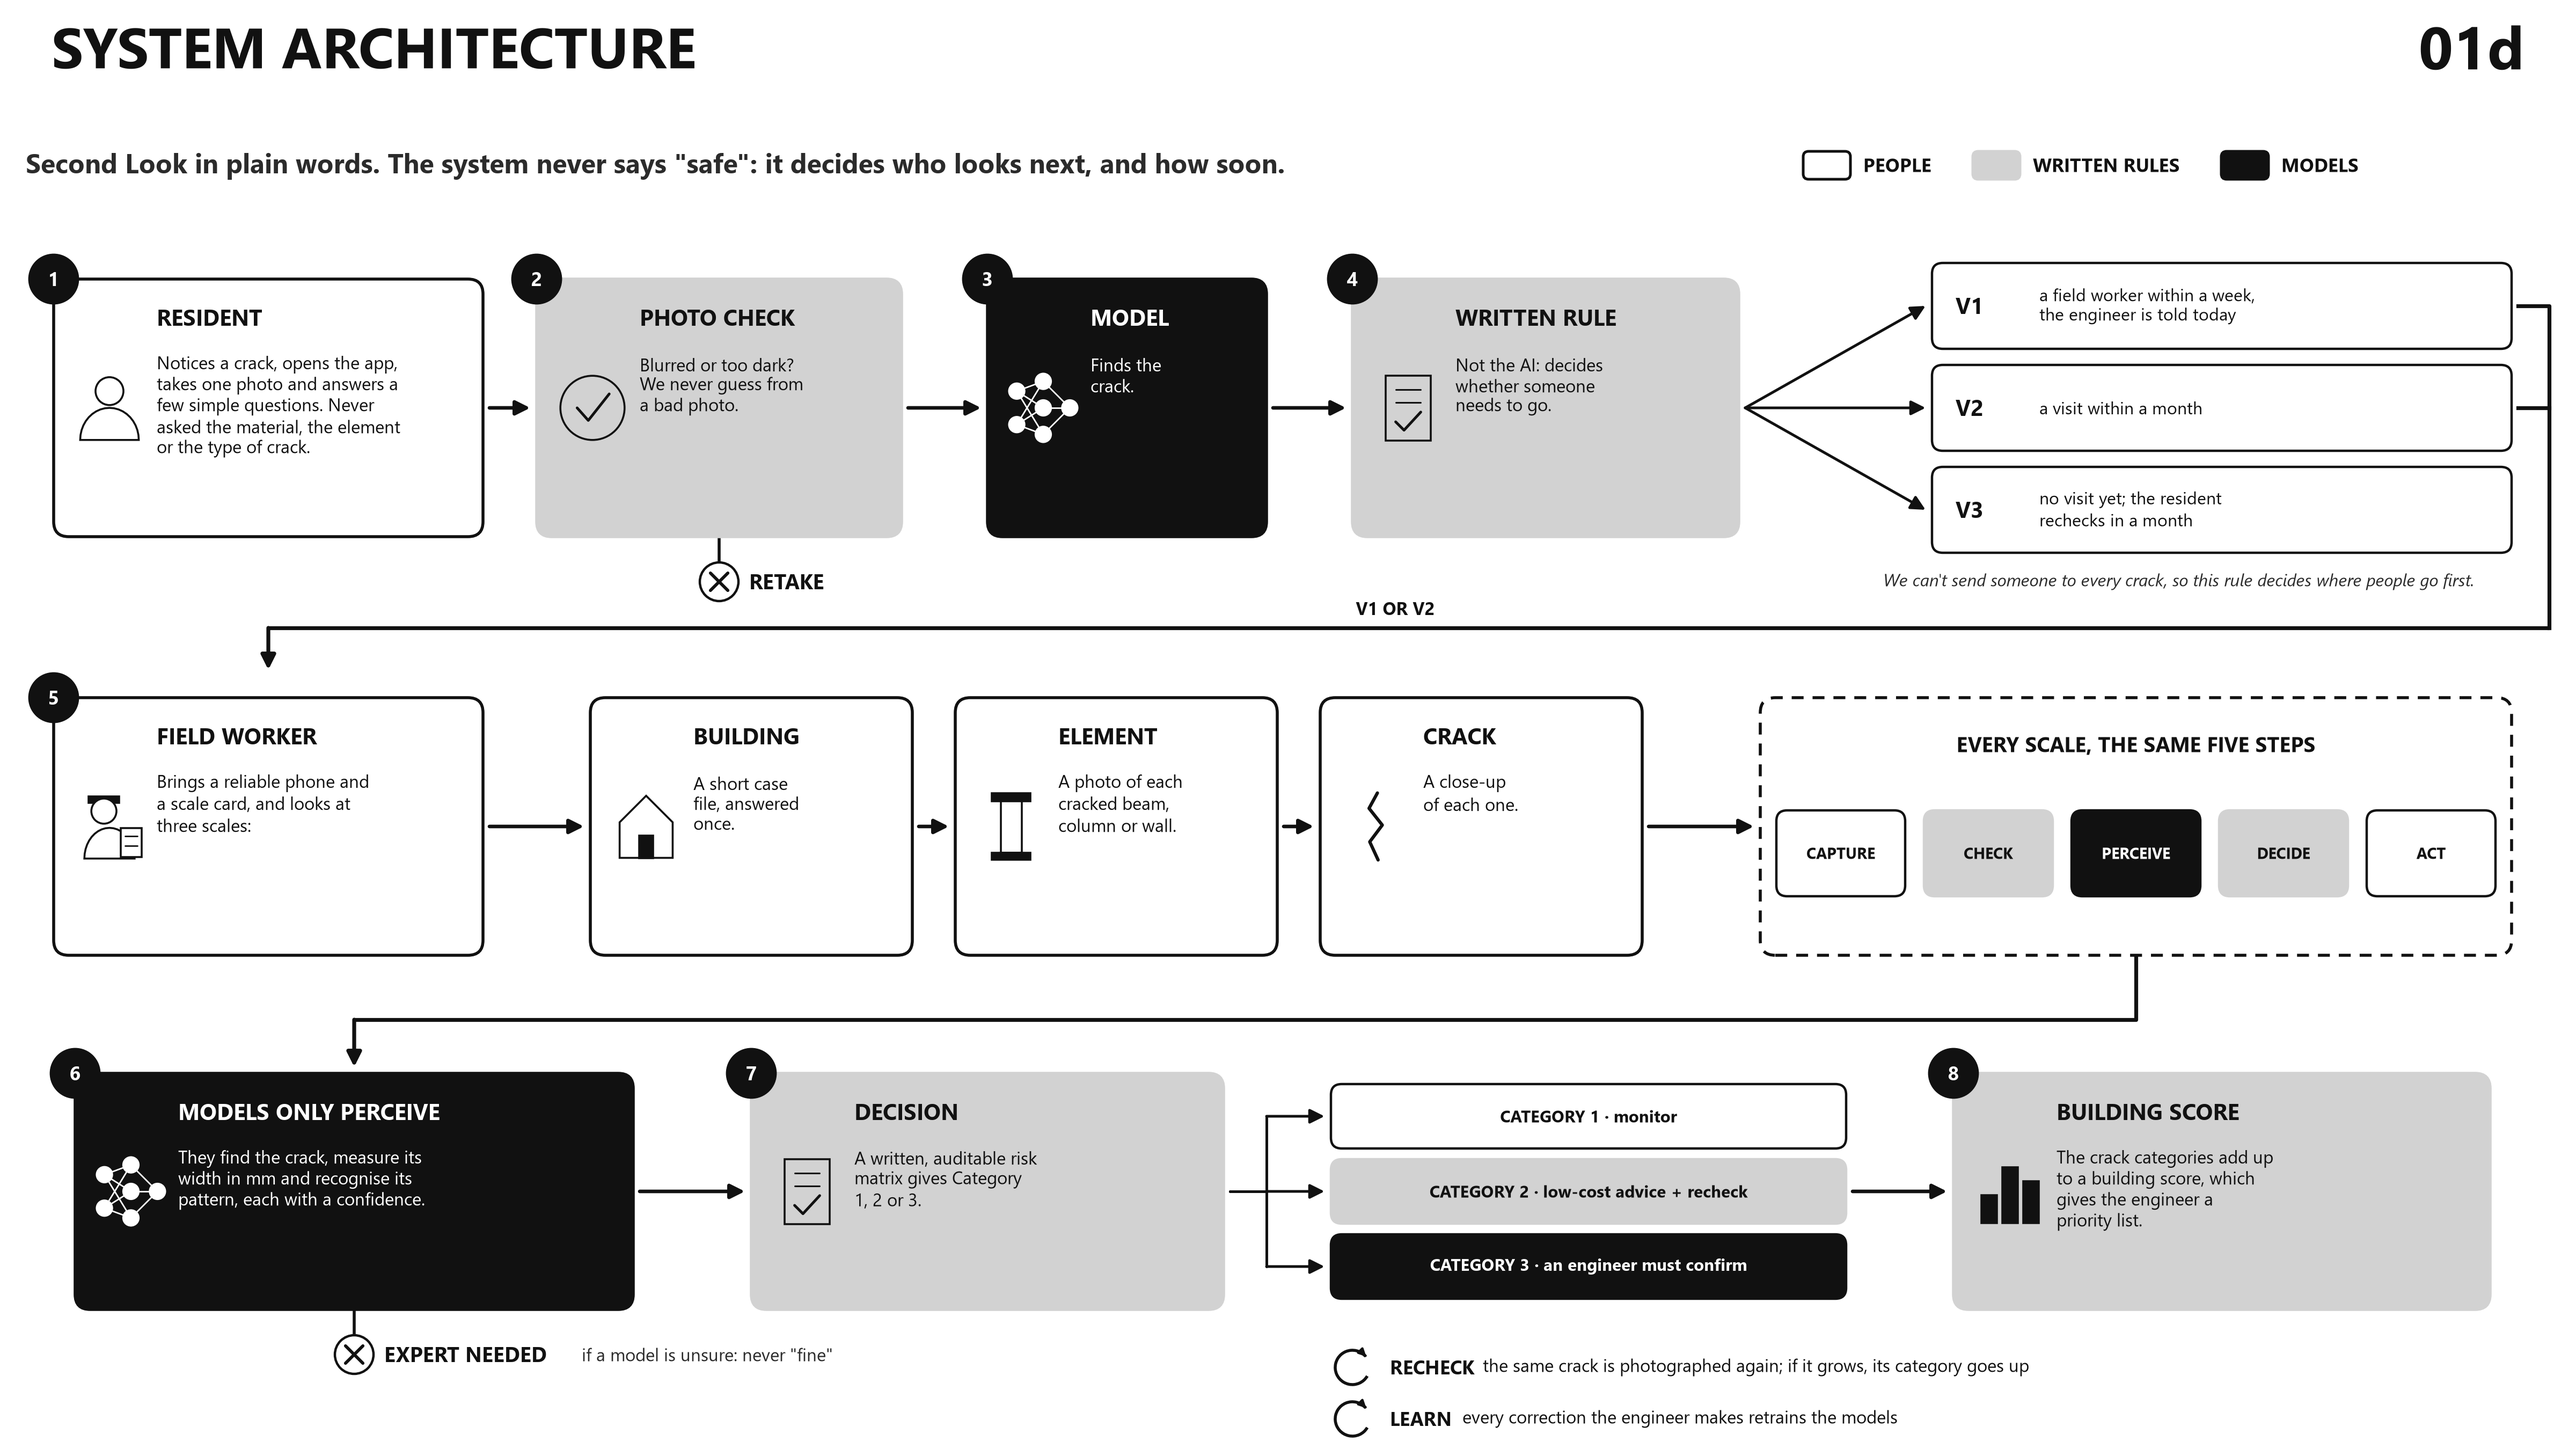
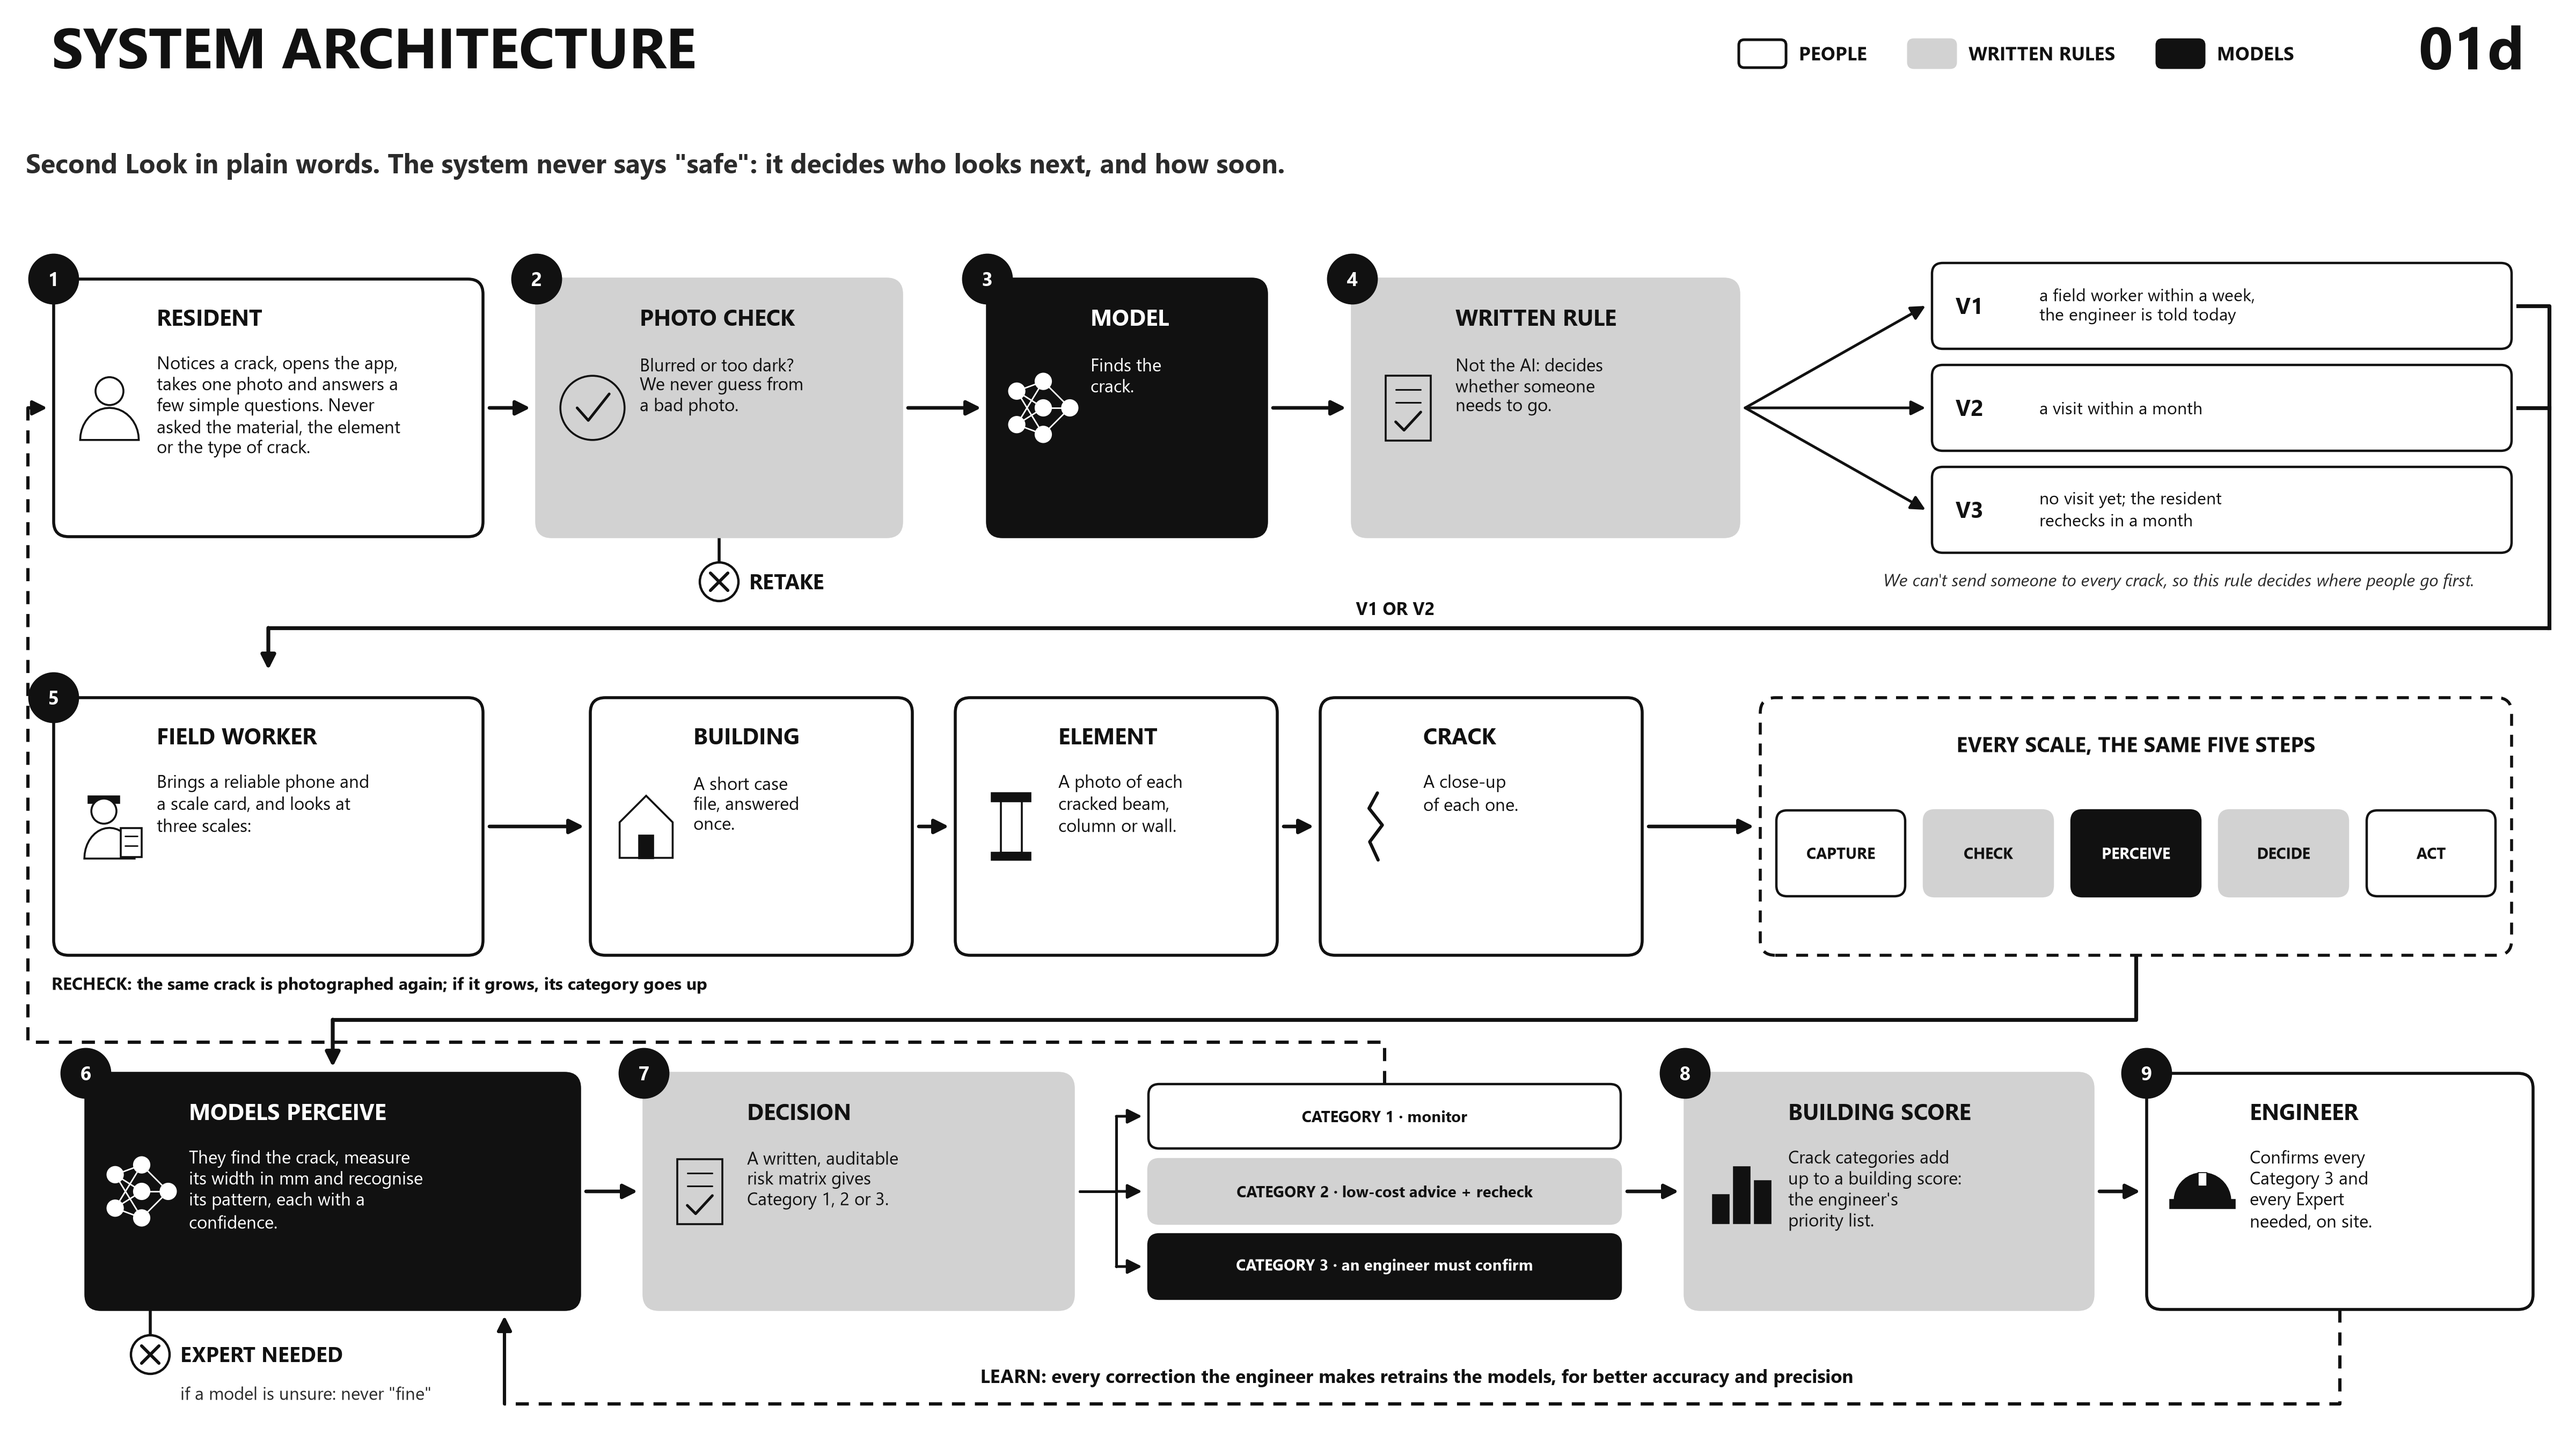
Figure 01d: engineer at the end with the learn loop to the models, recheck loop to the resident, legend on one line top right

diff --git a/src/viz/figures.py b/src/viz/figures.py
@@ -1643,11 +1643,11 @@ def pipeline_story():
     _house_title(fig, "SYSTEM ARCHITECTURE", "01d")
     t.label(2.4, 119.5, "Second Look in plain words. The system never says \"safe\": it decides who looks next, and how "
             "soon.", size=18, colour=FLOW_TEXT, weight="bold", ha="left")
-    kx = 168
+    kx = 162  # legend on one line, top right, on the title row
     for fill, edge, name in (("white", K, "PEOPLE"), (GREY, GREY, "WRITTEN RULES"), (K, K, "MODELS")):
-        ax.add_patch(FancyBboxPatch((kx, 118.3), 4.4, 2.6, boxstyle="round,pad=0,rounding_size=0.5", facecolor=fill,
+        ax.add_patch(FancyBboxPatch((kx, 128.7), 4.4, 2.6, boxstyle="round,pad=0,rounding_size=0.5", facecolor=fill,
                                     edgecolor=edge, lw=1.8, zorder=4))
-        t.label(kx + 5.6, 119.6, name, size=12.5, weight="bold", ha="left")
+        t.label(kx + 5.6, 130.0, name, size=12.5, weight="bold", ha="left")
         kx += 9.5 + 1.05 * len(name)
 
     # row 1: the report
@@ -1696,32 +1696,36 @@ def pipeline_story():
                                       ("rule", "DECIDE"), ("photo", "ACT"))):
         chip(171.5 + k * 13.75, y2 - 2.5, 12.0, 8.0, kind, word, size=10.5)
 
-    # row 3: perceive, decide, act
+    # row 3: perceive, decide, act, and the engineer at the end
     y3, h3 = 24, 22
-    arrow([(199, y2 - h2 / 2), (199, 40), (33, 40), (33, y3 + h3 / 2 + 0.6)], lw=2.6)
-    card(33, y3, 52, h3, "model", "network", "MODELS ONLY PERCEIVE", "They find the crack, measure its\nwidth in mm and "
-         "recognise its\npattern, each with a confidence.", "6")
-    stop(33, y3 - h3 / 2, "EXPERT NEEDED", "if a model is unsure: never \"fine\"")
-    card(92, y3, 44, h3, "rule", "rulebook", "DECISION", "A written, auditable risk\nmatrix gives Category\n1, 2 or 3.",
+    arrow([(199, y2 - h2 / 2), (199, 40), (31, 40), (31, y3 + h3 / 2 + 0.6)], lw=2.6)
+    card(31, y3, 46, h3, "model", "network", "MODELS PERCEIVE", "They find the crack, measure\nits width in mm and "
+         "recognise\nits pattern, each with a\nconfidence.", "6")
+    stop(14, y3 - h3 / 2, "EXPERT NEEDED", "")
+    t.label(16.8, 5.2, "if a model is unsure: never \"fine\"", size=12, colour=FLOW_TEXT, ha="left")
+    card(80, y3, 40, h3, "rule", "rulebook", "DECISION", "A written, auditable\nrisk matrix gives\nCategory 1, 2 or 3.",
          "7")
-    arrow([(59.6, y3), (69.4, y3)])
+    arrow([(54.6, y3), (59.4, y3)])
     cats = [(31.0, "CATEGORY 1 · monitor", "photo"), (24.0, "CATEGORY 2 · low-cost advice + recheck", "rule"),
             (17.0, "CATEGORY 3 · an engineer must confirm", "model")]
     for cy, text_, kind in cats:
-        chip(148, cy, 48, 6.0, kind, text_, size=11)
-        arrow([(114.6, y3), (118, y3), (118, cy), (123.4, cy)], lw=1.8)
-    card(207, y3, 50, h3, "rule", "bars", "BUILDING SCORE", "The crack categories add up\nto a building score, which\n"
-         "gives the engineer a\npriority list.", "8")
-    arrow([(172.6, y3), (181.4, y3)])
+        chip(129, cy, 44, 6.0, kind, text_, size=10.5)
+        arrow([(100.6, y3), (104, y3), (104, cy), (106.4, cy)], lw=1.8)
+    card(176, y3, 38, h3, "rule", "bars", "BUILDING SCORE", "Crack categories add\nup to a building score:\n"
+         "the engineer's\npriority list.", "8")
+    arrow([(151.6, y3), (156.4, y3)])
+    card(218, y3, 36, h3, "photo", "hardhat", "ENGINEER", "Confirms every\nCategory 3 and\nevery Expert\nneeded, on site.",
+         "9")
+    arrow([(195.6, y3), (199.4, y3)])
 
-    # the two loops
-    for ly, word, text_ in ((7.6, "RECHECK", "the same crack is photographed again; if it grows, its category goes up"),
-                            (2.8, "LEARN", "every correction the engineer makes retrains the models")):
-        ax.add_patch(matplotlib.patches.Arc((126, ly), 3.2, 3.2, theta1=40, theta2=330, color=K, lw=2.0, zorder=5))
-        ax.annotate("", xy=(127.3, ly + 1.0), xytext=(127.0, ly + 1.3),
-                    arrowprops=dict(arrowstyle="-|>", color=K, lw=1.6, mutation_scale=10), zorder=5)
-        t.label(129.5, ly, word, size=13, weight="bold", ha="left")
-        t.label(129.5 + 0.95 * len(word) + 2.0, ly, text_, size=12, ha="left")
+    # learn: the engineer's corrections go back to the models (dashed)
+    arrow([(218, y3 - h3 / 2), (218, 4.2), (47, 4.2), (47, y3 - h3 / 2 - 0.6)], ls=(0, (4, 3)), lw=2.2)
+    t.label(132, 6.6, "LEARN: every correction the engineer makes retrains the models, for better accuracy and "
+            "precision", size=12.5, weight="bold")
+    # recheck: categories 1 and 2 bring the same crack back to the resident (dashed)
+    arrow([(129, 34.0), (129, 37.9), (2.6, 37.9), (2.6, y1), (4.4, y1)], ls=(0, (4, 3)), lw=2.2)
+    t.label(4.8, 43.2, "RECHECK: the same crack is photographed again; if it grows, its category goes up", size=11.5,
+            weight="bold", ha="left")
     return fig
 
 

diff --git a/spec/features/figures.md b/spec/features/figures.md
@@ -9,7 +9,7 @@ Every figure is drawn from the repo's own rules and data map, so it changes when
 | `01_pipeline.png` | Pipeline v3: three scales (S, O, P as in PHI-Net task 1) x five phases, scene check, monitoring and learning loops, status of each box | `spec/features/pipeline.md` |
 | `01b_pipeline_flow.png` | Step 0, report and dispatch (when a field worker visits: V1, V2, V3, D27), then the same pipeline v3 drawn as a task flow: phases as numbered columns, scales as lanes; diamonds for written checks with stop (Retake, Expert needed) and continue marks, stacked boxes for learned models, both loops. Black, white and grey only: white = photos and people, grey = written rules (code), black = learned models | `spec/features/pipeline.md`, `spec/features/dispatch.md` |
 | `01c_pipeline_simple.png` | System architecture for a talk: the story of 01b in five big steps (photo, check, measure, decide, act), one symbol and one word each; the two stops (Retake, Expert needed), the three categories, the engineer, and the recheck and learn loops. Same colour logic as 01b; details (dispatch, scales, scene check) stay in 01b | `spec/features/pipeline.md`, `triage.matrix.assess()` |
-| `01d_pipeline_story.png` | System architecture in plain words: the two-minute explanation of the pipeline drawn as a pipeline, in its own sentences. Eight numbered boxes in three rows (report: resident, photo check, model, written dispatch rule with V1 / V2 / V3; field visit: field worker, building, element, crack, the same five steps; decision: models only perceive, risk matrix, Category 1 / 2 / 3, building score), the Retake and Expert needed stops, the recheck and learn loops. Same colour logic as 01b | `spec/features/pipeline.md`, `spec/features/dispatch.md` |
+| `01d_pipeline_story.png` | System architecture in plain words: the two-minute explanation of the pipeline drawn as a pipeline, in its own sentences. Nine numbered boxes in three rows (report: resident, photo check, model, written dispatch rule with V1 / V2 / V3; field visit: field worker, building, element, crack, the same five steps; decision: models only perceive, risk matrix, Category 1 / 2 / 3, building score, engineer), the Retake and Expert needed stops; recheck loop (categories back to the resident) and learn loop (engineer corrections back to the models). Legend on one line, top right. Same colour logic as 01b | `spec/features/pipeline.md`, `spec/features/dispatch.md` |
 | `02_decisions_and_players.png` | Decisions and players: the five players as lifelines, time going down, 14 numbered hand-offs, each with a symbol and one word (key below); decisions only on the written rules and the engineer; a 'who decides what' panel. Black, white and grey | `triage.dispatch.screen()`, `triage.matrix.assess()`, `spec/features/building_score.md` |
 | `02b_real_examples.png` | Real examples: up to three real photos of each crack pattern of the risk matrix, in the matrix's order and design (symbol + one word); each photo credited; engineer label or team pick per column. **Local only (git-ignored):** the photos keep their own licences (PHI-Net CC BY-NC-SA 4.0, Wikimedia Commons) | `src/viz/pattern_examples.py` (needs `data/raw/phinet`) |
 | `03_risk_matrix.png` | Matrix v3 in black, white and grey: each crack pattern as a drawn symbol with one word (key below), base category per pattern x width band (Category 1 white, 2 grey, 3 black), and what raises it, in words, with new and assumed values tagged | `src/triage/risk_matrix_v3.json` (read at run time) |
